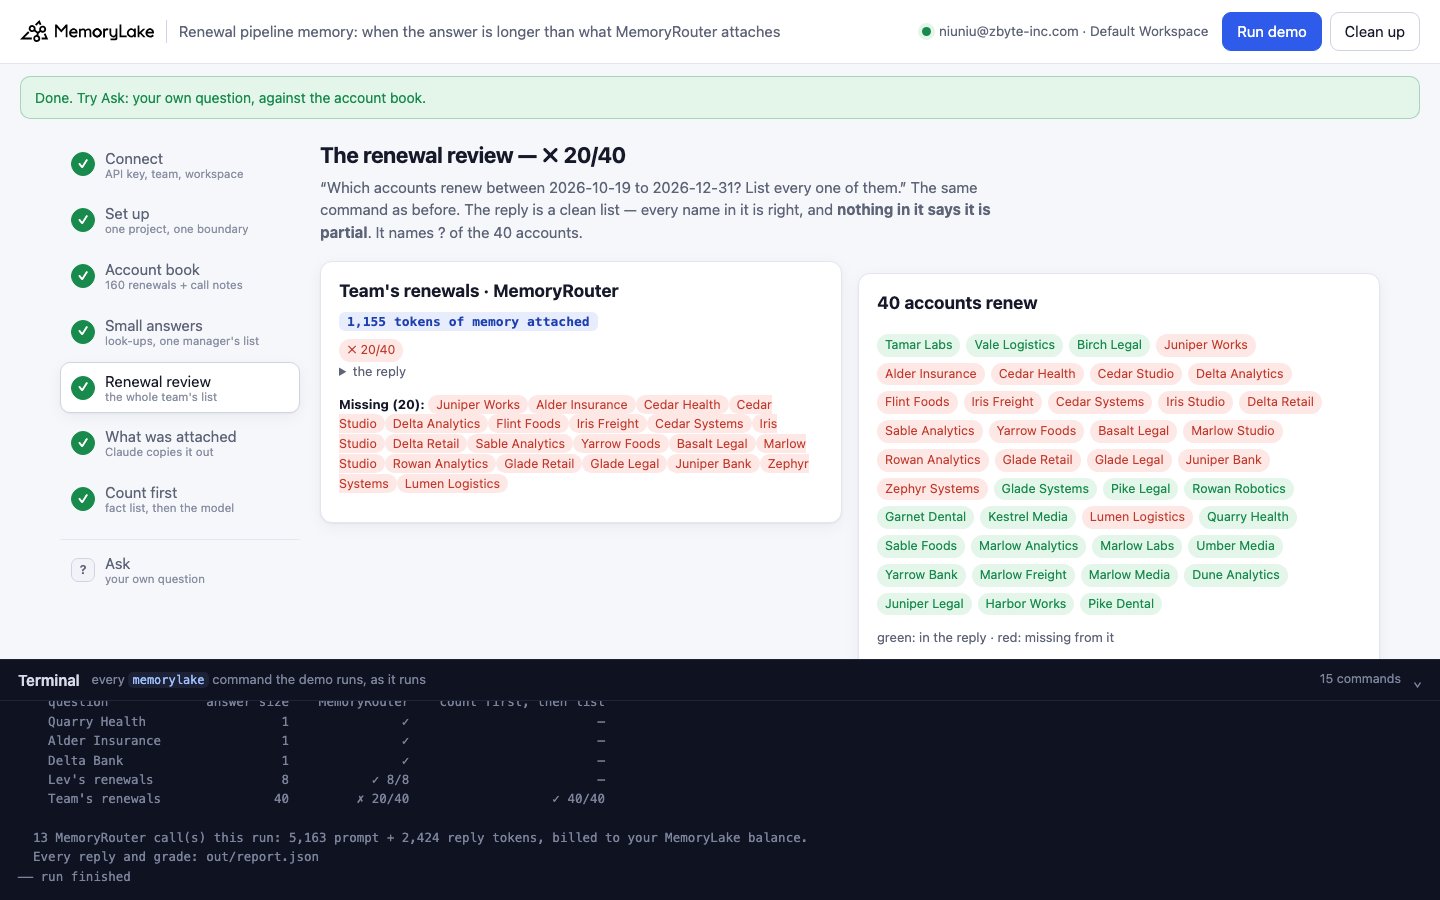
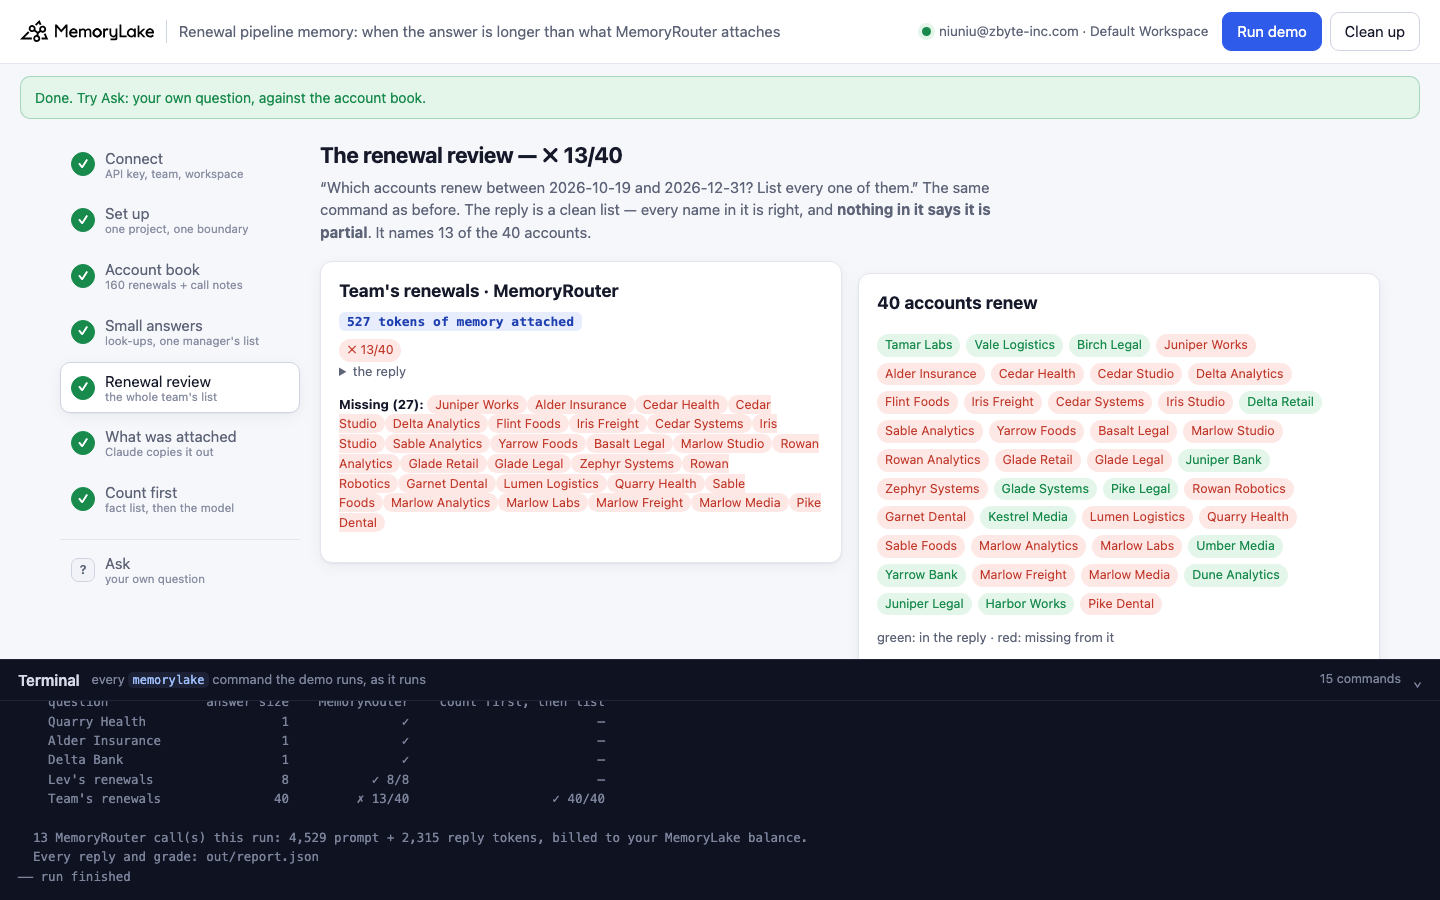
renewal-pipeline-memory: demo videos (release renewal-pipeline-memory-v1), totals over 9 runs

diff --git a/README.md b/README.md
@@ -77,7 +77,7 @@ that memory can hold once it is more than coding sessions.
 | [chatgpt-api-memory](chatgpt-api-memory/) | Developers building on the ChatGPT / Claude APIs | The chat API starts blank on every call. Two learners of a tutor app, each with a boundary over their own project and actor; the app keeps its chat call and adds `--boundary`. Through MemoryRouter (`memorylake router chat` / `router messages`, CLI v20261015) the same message gets each learner's details (no boundary: 0/30 over 5 runs) and never the other's (0/15 leaks); the pasted 3-session history costs about twice the prompt tokens; the same boundary works with `claude-haiku-4-5`; tonight's session, piped in as usual, moves the next answer from N4 to N3 (5/5) — but "drop the romaji" lost to an older pinned preference once (4/5). Off-topic messages still get some memory attached (3/5) | ~3 min | [CLI 6:35](https://github.com/memorylake-ai/memorylake-usecases/releases/download/chatgpt-api-memory-v1/chatgpt-api-memory-cli-demo.mp4) · [Web 7:33](https://github.com/memorylake-ai/memorylake-usecases/releases/download/chatgpt-api-memory-v1/chatgpt-api-memory-web-demo.mp4) |
 | [brand-voice-memory](brand-voice-memory/) | Brand, content and growth teams writing with AI | Three AI tools on three APIs (`router chat` / `router responses` / `router messages`, CLI v20261015) pass one boundary over the brand memory; a linter checks every draft and an inspector shows what each model received. No memory: 77/84 drafts off-brand over 7 runs; day one (10 facts): 10/84. A quarter later the memory has 50 facts and relevance retrieval attaches only the topic facts: the banned-words rule went from 16/16 briefs to 0/16 and 71/84 drafts were off-brand again. One voice card naming every channel: attached 16/16, 5/84 off-brand | ~2 min | [CLI 3:11](https://github.com/memorylake-ai/memorylake-usecases/releases/download/brand-voice-memory-v1/brand-voice-memory-cli-demo.mp4) · [Web 4:01](https://github.com/memorylake-ai/memorylake-usecases/releases/download/brand-voice-memory-v1/brand-voice-memory-web-demo.mp4) |
 | [long-term-llm-memory](long-term-llm-memory/) | Developers giving an LLM app long-term memory | One user's memory grows from 20 to 100 to 400 facts; the same four questions are asked with no memory, with the whole memory pasted into the prompt (`router chat --body`), and through MemoryRouter (`--boundary`). Pasted: 395 → 1,822 → 6,911 memory tokens per question, and at 400 facts 0 of 18 birthday lists exact over 9 runs (contacts listed under the wrong month every time). MemoryRouter: 78–158 tokens at every size, 108/108 answers exact | ~2 min | [CLI 4:17](https://github.com/memorylake-ai/memorylake-usecases/releases/download/long-term-llm-memory-v1/long-term-llm-memory-cli-demo.mp4) · [Web 4:41](https://github.com/memorylake-ai/memorylake-usecases/releases/download/long-term-llm-memory-v1/long-term-llm-memory-web-demo.mp4) |
-| [renewal-pipeline-memory](renewal-pipeline-memory/) | Sales and customer-success teams (renewal reviews) | "Which accounts renew this quarter?" — through MemoryRouter, about half of them, and nothing says so. 160 renewal records and 60 call notes in one project, one boundary. Look-ups and one manager's 8 renewals are right (`router chat --boundary`); the whole team's 40 come back as 9–33 accounts in 7 of 7 runs, every name right, no hedge. A checker (Claude copying out what it was given) shows a bounded set of the right records, about 20, never 40. Count first: `fact list --query` (no top-k) + `router chat --body` lists 40/40 in 7 of 7. | ~2 min | Recording |
+| [renewal-pipeline-memory](renewal-pipeline-memory/) | Sales and customer-success teams (renewal reviews) | "Which accounts renew this quarter?" — through MemoryRouter, about half of them, and nothing says so. 160 renewal records and 60 call notes in one project, one boundary. Look-ups and one manager's 8 renewals are right (`router chat --boundary`); the whole team's 40 come back as 9–33 accounts in 9 of 9 runs, every name right, no hedge. A checker (Claude copying out what it was given) shows a bounded set of the right records, about 20, never 40. Count first: `fact list --query` (no top-k) + `router chat --body` lists 40/40 in 9 of 9. | ~2 min | [CLI 2:51](https://github.com/memorylake-ai/memorylake-usecases/releases/download/renewal-pipeline-memory-v1/renewal-pipeline-memory-cli-demo.mp4) · [Web 3:10](https://github.com/memorylake-ai/memorylake-usecases/releases/download/renewal-pipeline-memory-v1/renewal-pipeline-memory-web-demo.mp4) |
 
 The videos are real, unedited recordings; every asset lives on the [releases page](https://github.com/memorylake-ai/memorylake-usecases/releases).
 

diff --git a/renewal-pipeline-memory/README.md b/renewal-pipeline-memory/README.md
@@ -4,7 +4,8 @@ A runnable version of the MemoryLake use case
 [*Give Sales Teams AI That Knows the Deal Before the Call Starts*](https://www.memorylake.ai/en/usecase/ai-memory-for-sales-teams),
 built entirely on the [`memorylake` CLI](https://github.com/memorylake-ai/memorylake-cli) (v20261015 or later).
 
-**Watch it run:** videos are being recorded (links will follow).
+**Watch it run:** [CLI, 2:51](https://github.com/memorylake-ai/memorylake-usecases/releases/download/renewal-pipeline-memory-v1/renewal-pipeline-memory-cli-demo.mp4) · [Web, 3:10](https://github.com/memorylake-ai/memorylake-usecases/releases/download/renewal-pipeline-memory-v1/renewal-pipeline-memory-web-demo.mp4)
+([release](https://github.com/memorylake-ai/memorylake-usecases/releases/tag/renewal-pipeline-memory-v1); GitHub serves them as downloads).
 
 **The problem.** A customer-success team keeps every account's renewal record in shared memory, and its assistant
 reads that memory through MemoryRouter: the app adds one `--boundary` to an ordinary model call, and MemoryRouter
@@ -176,28 +177,28 @@ provider request body whose system message holds the 40 records.
 
 ## Measured
 
-Seven fresh runs of the final version on 2026-10-15: six from the terminal (three in parallel under separate prefixes,
-then three in a row, one of them `--reset`) and one browser check. Temperature 0; replies still vary. Every run started
-from an empty project.
+Nine fresh runs of the final version on 2026-10-15: six from the terminal (three in parallel under separate prefixes,
+then three in a row, one of them `--reset`), one browser check, and the two recorded runs (terminal and browser).
+Temperature 0; replies still vary. Every run started from an empty project.
 
 | Question (answer size) | MemoryRouter | Count first, then list |
 |---|---|---|
-| 3 look-ups (1 each) | 21 / 21 | — |
-| Lev's renewals (8) | 7 / 7 complete | — |
-| Team's renewals (40) | **0 / 7 complete**: 19, 18, 33, 19, 9, 19, 20 accounts named; 0 wrong names; 0 replies said the list might be incomplete | **7 / 7 complete** (40 / 40) |
+| 3 look-ups (1 each) | 27 / 27 | — |
+| Lev's renewals (8) | 9 / 9 complete | — |
+| Team's renewals (40) | **0 / 9 complete**: 19, 18, 33, 19, 9, 19, 20, 18, 13 accounts named; 0 wrong names; 0 replies said the list might be incomplete | **9 / 9 complete** (40 / 40) |
 
 What MemoryRouter attached for the team's question:
 
-- To the `gpt-4o-mini` request (estimated from its size): about 19 records in 5 runs, about 33 in 2.
-- To Claude's checker request in step 6: 19 records in 4 runs, 33–36 in 3. A probe before the demo (12 more checker
+- To the `gpt-4o-mini` request (estimated from its size): about 14–20 records in 7 runs, about 33 in 2.
+- To Claude's checker request in step 6: 18–19 records in 6 runs, 33–36 in 3. A probe before the demo (12 more checker
   calls on the same book) saw 18–20 in 11 and 32 in 1. **Never 40.** Every attached line, in every call, was a
   renewal in the window.
-- For Lev's question the checker saw his 8 records in 5 runs and 7 in 2; the `gpt-4o-mini` replies listed all 8 in
-  all 7.
+- For Lev's question the checker saw his 8 records in 7 runs and 7 in 2; the `gpt-4o-mini` replies listed all 8 in
+  all 9.
 
 What the numbers say, and don't:
 
-- **MemoryRouter attaches a bounded set by relevance**, about 20 renewals in most calls and about 35 in some, chosen
+- **MemoryRouter attaches a bounded set by relevance**, 14–20 renewals in most calls and about 35 in some, chosen
   well: no call note and no out-of-window renewal was ever attached to the window question. When the answer has more
   entries than that, the list cannot be complete.
 - **The model can also list fewer than it was given.** In one run about 19 were attached and the reply named 9; in the
